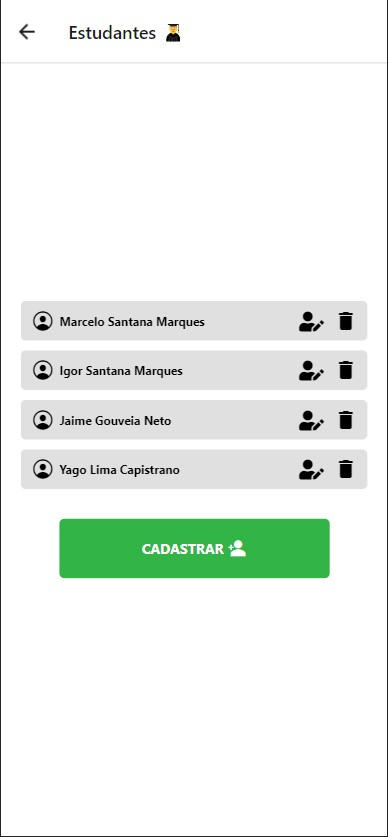
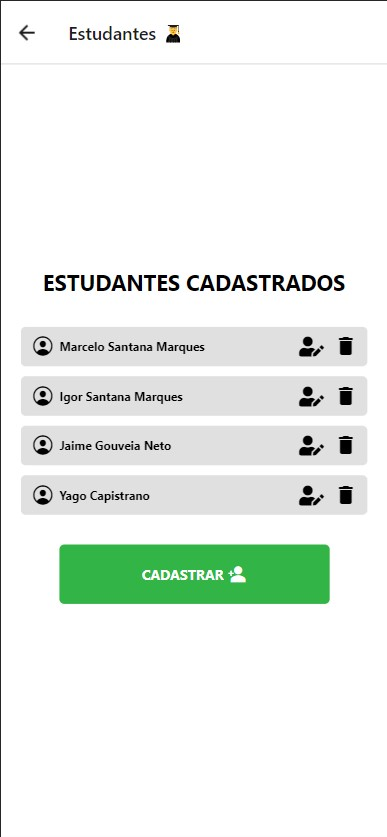
add details

diff --git a/projetos/firebase/src/pages/ListStudents/styles.js b/projetos/firebase/src/pages/ListStudents/styles.js
@@ -8,6 +8,12 @@ export const styles = StyleSheet.create({
     justifyContent: "center",
   },
 
+  title: {
+    fontSize: 22,
+    fontWeight: "bold",
+    marginBottom: 30,
+  },
+
   content: {
     width: "100%",
     display: "flex",
@@ -41,7 +47,7 @@ export const styles = StyleSheet.create({
     alignItems: "center",
     justifyContent: "center",
     borderRadius: 5,
-    marginBottom: 20,
+    marginBottom: 30,
   },
 
   buttonText: {

diff --git a/projetos/firebase/src/pages/ListTeachers/styles.js b/projetos/firebase/src/pages/ListTeachers/styles.js
@@ -8,6 +8,12 @@ export const styles = StyleSheet.create({
     justifyContent: "center",
   },
 
+  title: {
+    fontSize: 22,
+    fontWeight: "bold",
+    marginBottom: 30,
+  },
+
   content: {
     width: "100%",
     display: "flex",
@@ -41,7 +47,7 @@ export const styles = StyleSheet.create({
     alignItems: "center",
     justifyContent: "center",
     borderRadius: 5,
-    marginBottom: 20,
+    marginBottom: 30,
   },
 
   buttonText: {

diff --git a/projetos/firebase/src/pages/ListTeachers/index.jsx b/projetos/firebase/src/pages/ListTeachers/index.jsx
@@ -24,6 +24,7 @@ export default function ListTeachers({ navigation }) {
   return (
     <View style={styles.container}>
       <SafeAreaView style={styles.content}>
+        <Text style={styles.title}>PROFESSORES CADASTRADOS</Text>
         <FlatList
           data={teachers}
           renderItem={({ item }) => (

diff --git a/projetos/firebase/src/pages/ListStudents/index.jsx b/projetos/firebase/src/pages/ListStudents/index.jsx
@@ -24,6 +24,7 @@ export default function ListStudents({ navigation }) {
   return (
     <View style={styles.container}>
       <SafeAreaView style={styles.content}>
+        <Text style={styles.title}>ESTUDANTES CADASTRADOS</Text>
         <FlatList
           data={students}
           renderItem={({ item }) => (
